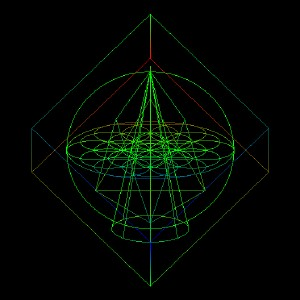
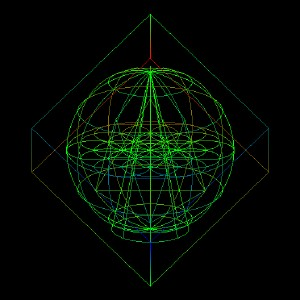
Chestahedron: draw its sphere as a globe; form links use the page's keys
Three great circles seen square on read as a circle and two lines, which
hid the sphere form's sphere: it is now six meridians and five parallels.
The README's form links now write controls the way the page writes them
into its own links (p.form, not p.chestahedron-form); both were read.

diff --git a/pkg/chester/forms.go b/pkg/chester/forms.go
@@ -312,9 +312,16 @@ func sphere(l *Lines, d int) {
 	l.poly(ch)
 	x, y, z := V{1, 0, 0}, V{0, 1, 0}, V{0, 0, 1}
 	o := V{}
-	l.circle(o, x, z, 1, 96)
-	l.circle(o, x, y, 1, 96)
-	l.circle(o, z, y, 1, 96)
+	// The sphere as a globe, so it reads as a sphere from any side: three
+	// great circles seen square on are a circle and two lines.
+	for i := range 6 { // meridians through the peak
+		a := math.Pi * float64(i) / 6
+		l.circle(o, V{math.Cos(a), 0, math.Sin(a)}, y, 1, 96)
+	}
+	for _, lat := range []float64{-60, -30, 0, 30, 60} {
+		p := lat * math.Pi / 180
+		l.circle(V{0, math.Sin(p), 0}, x, z, math.Cos(p), 96)
+	}
 	if d >= 1 {
 		r, rings := 0.5, 1 // the seed: seven circles, the outer one the equator
 		if d >= 3 {

diff --git a/pkg/uitool/forms.go b/pkg/uitool/forms.go
@@ -60,11 +60,11 @@ func formStill(dir, key, name string) string {
 }
 
 // formLink is the page with the figure up: the model, then each control as
-// a link sets it (p.<id>=<value>).
+// the page writes it into a link (p.<id less the model's prefix>=<value>).
 func formLink(key string, f formPreset) string {
 	parts := []string{key}
 	for _, s := range f.set {
-		parts = append(parts, "p."+s[0]+"="+s[1])
+		parts = append(parts, "p."+strings.TrimPrefix(s[0], key+"-")+"="+s[1])
 	}
 	return *siteBase + "/#" + strings.Join(parts, "&")
 }

diff --git a/pkg/uitool/forms_test.go b/pkg/uitool/forms_test.go
@@ -21,7 +21,7 @@ func TestChestFormsCoverTheKnob(t *testing.T) {
 			t.Errorf("gallery form %d is %q, the knob's is %q", i, f.name, chester.FormNames[i])
 		}
 		link := formLink("chestahedron", f)
-		if !strings.Contains(link, "#chestahedron&p.chestahedron-form="+strconv.Itoa(i)+"&") {
+		if !strings.Contains(link, "#chestahedron&p.form="+strconv.Itoa(i)+"&") {
 			t.Errorf("%s links to %s", f.name, link)
 		}
 		if !strings.Contains(g, link) {

diff --git a/README.md b/README.md
@@ -1487,10 +1487,10 @@ Its forms, each opening the page with that form up:
 
 |   |   |   |   |
 | --- | --- | --- | --- |
-| [![solid](docs/img/model/chestahedron-form-solid.jpg)](https://chaosrack.magnetosphere.net/#chestahedron&p.chestahedron-form=0&p.chestahedron-morph=1&p.chestahedron-detail=3)<br>[solid](https://chaosrack.magnetosphere.net/#chestahedron&p.chestahedron-form=0&p.chestahedron-morph=1&p.chestahedron-detail=3) | [![star](docs/img/model/chestahedron-form-star.jpg)](https://chaosrack.magnetosphere.net/#chestahedron&p.chestahedron-form=1&p.chestahedron-morph=1&p.chestahedron-detail=1)<br>[star](https://chaosrack.magnetosphere.net/#chestahedron&p.chestahedron-form=1&p.chestahedron-morph=1&p.chestahedron-detail=1) | [![inner](docs/img/model/chestahedron-form-inner.jpg)](https://chaosrack.magnetosphere.net/#chestahedron&p.chestahedron-form=2&p.chestahedron-morph=1&p.chestahedron-detail=4)<br>[inner](https://chaosrack.magnetosphere.net/#chestahedron&p.chestahedron-form=2&p.chestahedron-morph=1&p.chestahedron-detail=4) | [![sphere](docs/img/model/chestahedron-form-sphere.jpg)](https://chaosrack.magnetosphere.net/#chestahedron&p.chestahedron-form=3&p.chestahedron-morph=1&p.chestahedron-detail=4)<br>[sphere](https://chaosrack.magnetosphere.net/#chestahedron&p.chestahedron-form=3&p.chestahedron-morph=1&p.chestahedron-detail=4) |
-| [![bell](docs/img/model/chestahedron-form-bell.jpg)](https://chaosrack.magnetosphere.net/#chestahedron&p.chestahedron-form=4&p.chestahedron-morph=1.5&p.chestahedron-detail=2)<br>[bell](https://chaosrack.magnetosphere.net/#chestahedron&p.chestahedron-form=4&p.chestahedron-morph=1.5&p.chestahedron-detail=2) | [![air](docs/img/model/chestahedron-form-air.jpg)](https://chaosrack.magnetosphere.net/#chestahedron&p.chestahedron-form=5&p.chestahedron-morph=1&p.chestahedron-detail=0)<br>[air](https://chaosrack.magnetosphere.net/#chestahedron&p.chestahedron-form=5&p.chestahedron-morph=1&p.chestahedron-detail=0) | [![deca](docs/img/model/chestahedron-form-deca.jpg)](https://chaosrack.magnetosphere.net/#chestahedron&p.chestahedron-form=6&p.chestahedron-morph=1&p.chestahedron-detail=1)<br>[deca](https://chaosrack.magnetosphere.net/#chestahedron&p.chestahedron-form=6&p.chestahedron-morph=1&p.chestahedron-detail=1) | [![heart](docs/img/model/chestahedron-form-heart.jpg)](https://chaosrack.magnetosphere.net/#chestahedron&p.chestahedron-form=7&p.chestahedron-morph=1&p.chestahedron-detail=1)<br>[heart](https://chaosrack.magnetosphere.net/#chestahedron&p.chestahedron-form=7&p.chestahedron-morph=1&p.chestahedron-detail=1) |
-| [![spin](docs/img/model/chestahedron-form-spin.jpg)](https://chaosrack.magnetosphere.net/#chestahedron&p.chestahedron-form=8&p.chestahedron-morph=0.5&p.chestahedron-detail=2)<br>[spin](https://chaosrack.magnetosphere.net/#chestahedron&p.chestahedron-form=8&p.chestahedron-morph=0.5&p.chestahedron-detail=2) | [![first](docs/img/model/chestahedron-form-first.jpg)](https://chaosrack.magnetosphere.net/#chestahedron&p.chestahedron-form=9&p.chestahedron-morph=1&p.chestahedron-detail=1)<br>[first](https://chaosrack.magnetosphere.net/#chestahedron&p.chestahedron-form=9&p.chestahedron-morph=1&p.chestahedron-detail=1) | [![roll](docs/img/model/chestahedron-form-roll.jpg)](https://chaosrack.magnetosphere.net/#chestahedron&p.chestahedron-form=10&p.chestahedron-morph=1&p.chestahedron-detail=6)<br>[roll](https://chaosrack.magnetosphere.net/#chestahedron&p.chestahedron-form=10&p.chestahedron-morph=1&p.chestahedron-detail=6) | [![fire](docs/img/model/chestahedron-form-fire.jpg)](https://chaosrack.magnetosphere.net/#chestahedron&p.chestahedron-form=11&p.chestahedron-morph=1&p.chestahedron-detail=2)<br>[fire](https://chaosrack.magnetosphere.net/#chestahedron&p.chestahedron-form=11&p.chestahedron-morph=1&p.chestahedron-detail=2) |
-| [![beat](docs/img/model/chestahedron-form-beat.jpg)](https://chaosrack.magnetosphere.net/#chestahedron&p.chestahedron-form=12&p.chestahedron-morph=1&p.chestahedron-detail=2)<br>[beat](https://chaosrack.magnetosphere.net/#chestahedron&p.chestahedron-form=12&p.chestahedron-morph=1&p.chestahedron-detail=2) | [![bubble](docs/img/model/chestahedron-form-bubble.jpg)](https://chaosrack.magnetosphere.net/#chestahedron&p.chestahedron-form=13&p.chestahedron-morph=1&p.chestahedron-detail=2)<br>[bubble](https://chaosrack.magnetosphere.net/#chestahedron&p.chestahedron-form=13&p.chestahedron-morph=1&p.chestahedron-detail=2) |  |  |
+| [![solid](docs/img/model/chestahedron-form-solid.jpg)](https://chaosrack.magnetosphere.net/#chestahedron&p.form=0&p.morph=1&p.detail=3)<br>[solid](https://chaosrack.magnetosphere.net/#chestahedron&p.form=0&p.morph=1&p.detail=3) | [![star](docs/img/model/chestahedron-form-star.jpg)](https://chaosrack.magnetosphere.net/#chestahedron&p.form=1&p.morph=1&p.detail=1)<br>[star](https://chaosrack.magnetosphere.net/#chestahedron&p.form=1&p.morph=1&p.detail=1) | [![inner](docs/img/model/chestahedron-form-inner.jpg)](https://chaosrack.magnetosphere.net/#chestahedron&p.form=2&p.morph=1&p.detail=4)<br>[inner](https://chaosrack.magnetosphere.net/#chestahedron&p.form=2&p.morph=1&p.detail=4) | [![sphere](docs/img/model/chestahedron-form-sphere.jpg)](https://chaosrack.magnetosphere.net/#chestahedron&p.form=3&p.morph=1&p.detail=4)<br>[sphere](https://chaosrack.magnetosphere.net/#chestahedron&p.form=3&p.morph=1&p.detail=4) |
+| [![bell](docs/img/model/chestahedron-form-bell.jpg)](https://chaosrack.magnetosphere.net/#chestahedron&p.form=4&p.morph=1.5&p.detail=2)<br>[bell](https://chaosrack.magnetosphere.net/#chestahedron&p.form=4&p.morph=1.5&p.detail=2) | [![air](docs/img/model/chestahedron-form-air.jpg)](https://chaosrack.magnetosphere.net/#chestahedron&p.form=5&p.morph=1&p.detail=0)<br>[air](https://chaosrack.magnetosphere.net/#chestahedron&p.form=5&p.morph=1&p.detail=0) | [![deca](docs/img/model/chestahedron-form-deca.jpg)](https://chaosrack.magnetosphere.net/#chestahedron&p.form=6&p.morph=1&p.detail=1)<br>[deca](https://chaosrack.magnetosphere.net/#chestahedron&p.form=6&p.morph=1&p.detail=1) | [![heart](docs/img/model/chestahedron-form-heart.jpg)](https://chaosrack.magnetosphere.net/#chestahedron&p.form=7&p.morph=1&p.detail=1)<br>[heart](https://chaosrack.magnetosphere.net/#chestahedron&p.form=7&p.morph=1&p.detail=1) |
+| [![spin](docs/img/model/chestahedron-form-spin.jpg)](https://chaosrack.magnetosphere.net/#chestahedron&p.form=8&p.morph=0.5&p.detail=2)<br>[spin](https://chaosrack.magnetosphere.net/#chestahedron&p.form=8&p.morph=0.5&p.detail=2) | [![first](docs/img/model/chestahedron-form-first.jpg)](https://chaosrack.magnetosphere.net/#chestahedron&p.form=9&p.morph=1&p.detail=1)<br>[first](https://chaosrack.magnetosphere.net/#chestahedron&p.form=9&p.morph=1&p.detail=1) | [![roll](docs/img/model/chestahedron-form-roll.jpg)](https://chaosrack.magnetosphere.net/#chestahedron&p.form=10&p.morph=1&p.detail=6)<br>[roll](https://chaosrack.magnetosphere.net/#chestahedron&p.form=10&p.morph=1&p.detail=6) | [![fire](docs/img/model/chestahedron-form-fire.jpg)](https://chaosrack.magnetosphere.net/#chestahedron&p.form=11&p.morph=1&p.detail=2)<br>[fire](https://chaosrack.magnetosphere.net/#chestahedron&p.form=11&p.morph=1&p.detail=2) |
+| [![beat](docs/img/model/chestahedron-form-beat.jpg)](https://chaosrack.magnetosphere.net/#chestahedron&p.form=12&p.morph=1&p.detail=2)<br>[beat](https://chaosrack.magnetosphere.net/#chestahedron&p.form=12&p.morph=1&p.detail=2) | [![bubble](docs/img/model/chestahedron-form-bubble.jpg)](https://chaosrack.magnetosphere.net/#chestahedron&p.form=13&p.morph=1&p.detail=2)<br>[bubble](https://chaosrack.magnetosphere.net/#chestahedron&p.form=13&p.morph=1&p.detail=2) |  |  |
 
 
 `#chestahedron` · geometry
